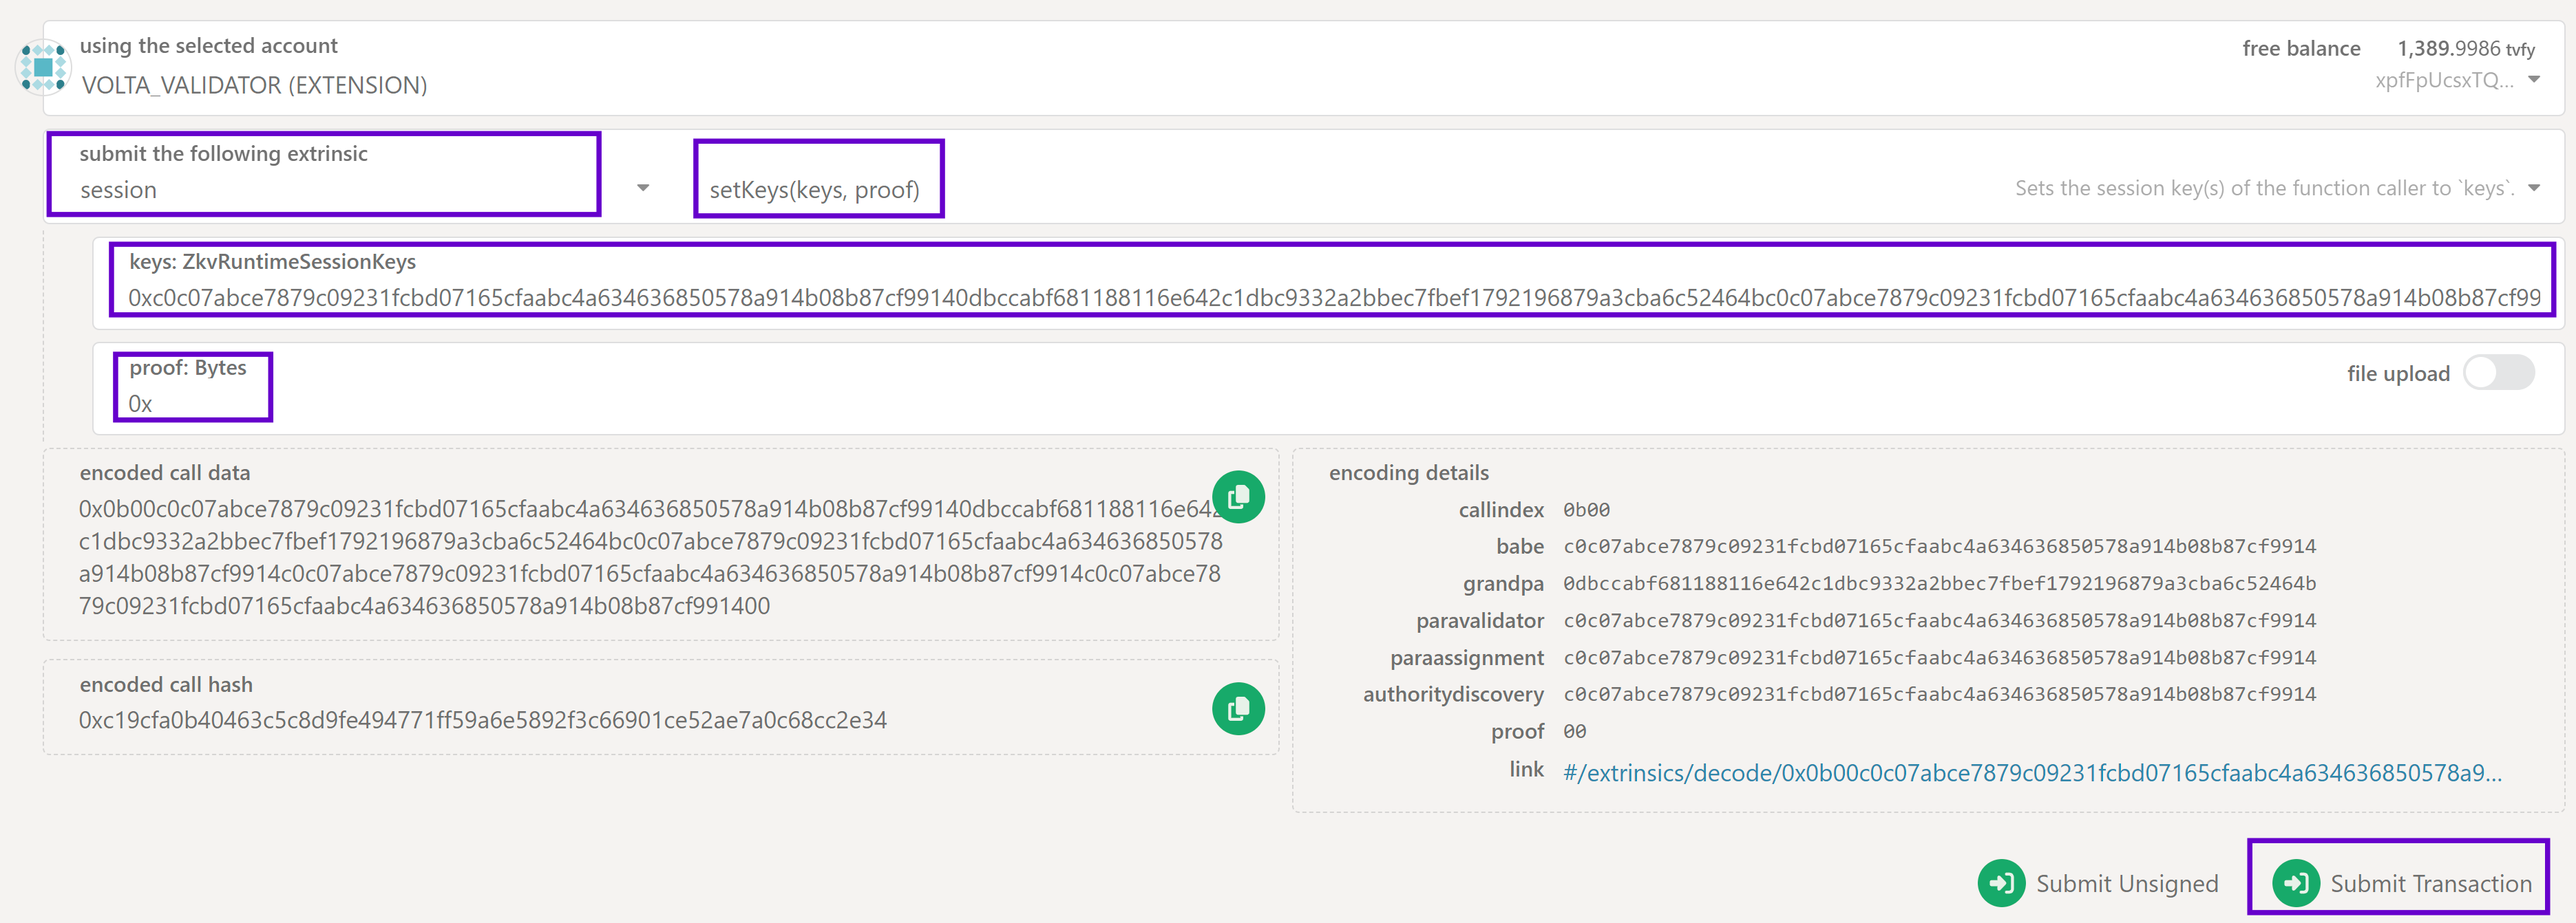
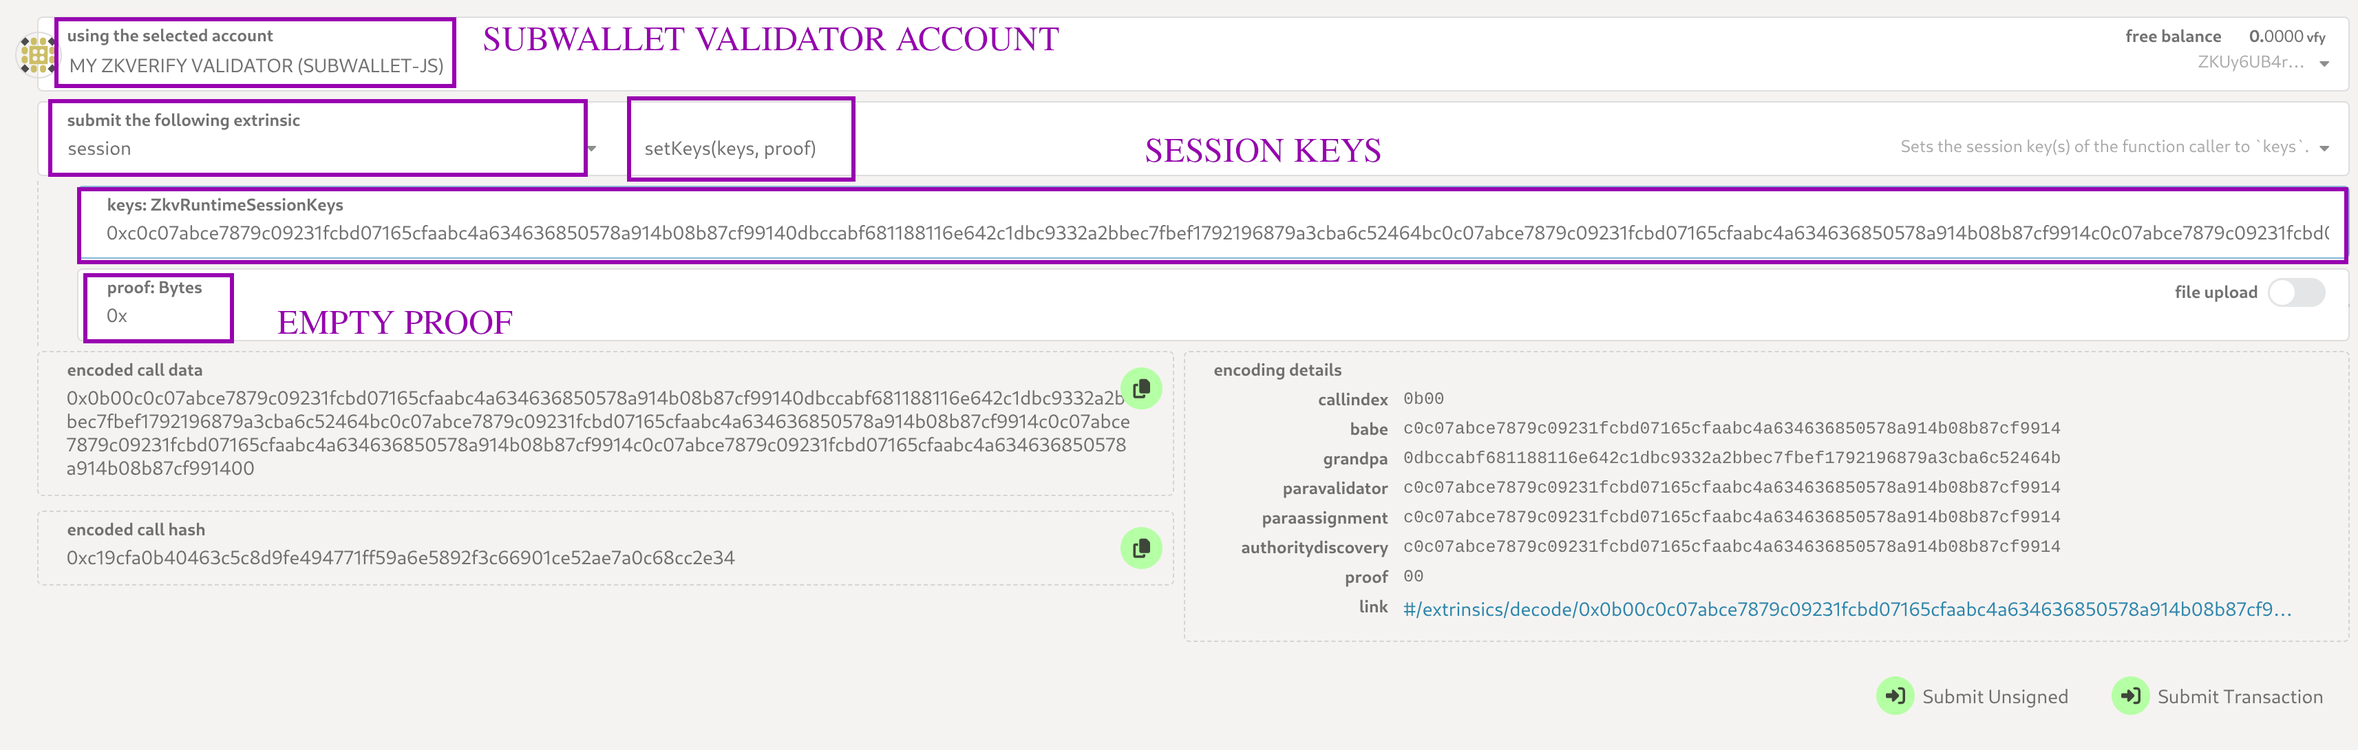
Update the README (#9)
* Update README

* Update SetKeys picture

* Fix broken section links

diff --git a/README.md b/README.md
@@ -33,7 +33,7 @@ The **network** can be chosen to be *testnet* (i.e. [the Volta testnet](https://
 ---
 
 ## Instructions
-In order to become an active validator on zkVerify, and be compensated for such activities, you need to (1) [set up your node](#setting-up-the-node), and (2) [state your intent on chain in the Proof of Stake consensus](#join-proof-of-stake).
+In order to become an active validator on zkVerify, and be compensated for such activities, you need to (1) [set up your node](#1-setting-up-the-node), and (2) [state your intent on chain in the Proof of Stake consensus](#2-join-proof-of-stake).
 
 ### 1. Setting up the node
 
@@ -98,11 +98,17 @@ Use the following steps to implement this approach:
 
 In this section you can learn how to register a new validator on the blockchain. The operations described below must be performed just once, **after the node started in the previous section has synchronized with the existing history of the selected zkVerify chain** (testnet or mainnet).  They consist of the submission of some extrinsics (transactions, in Substrate terminology) resulting in your node being able to author new blocks and consequently earn new tokens through staking mechanism.
 
-> **_NOTE_** Since you are going to submit extrinsics which change the blockchain state, you need sufficient funds in the account (uniquely identified by your secret phrase) associated with your validator so that you can pay transaction fees. Reach out to the zkVerify team to get your token allocation.
+#### Create a New Validator Account
 
-#### Collect the Public Keys
+First, you need a zkVerify account that you will use to execute all the operations needed for becoming a validator. Notice, this will be the Validator account whose address will show up in the list of validators for zkVerify. This account needs a sufficient balance to be able to bond enough tokens and execute management operations on chain, and for such reason **we highly encourage to use a secure wallet extension (e.g. Subwallet) for storing the secrets of the account**. At the same time, we advice against storing this account's secrets directly in PolkadotJS.
 
-We will require the public keys associated with the secrets above for your validator to them with the network. You need *five* keys: Babe, Grandpa, Para Validator, Para Assignment, and Authority Discovery.
+> **_NOTE_** Since you are going to submit extrinsics which change the blockchain state, you need sufficient funds in the account. If necessary, reach out to the zkVerify team and provide your account address to get your token allocation.
+
+#### Collect the Session Keys
+
+Session keys are the keys that will sign all the validation operations behind the scenes. You will never use these keys directly in your wallet to sign transactions, but your node will use them to sign operational messages that are at the base of the security of the network. For this reason, **we strongly advise that these public keys do not belong to the same keypair as the one used for the Validator account above.**
+
+We will require the public keys associated with the secrets injected in the node in the [node setup section](#1-setting-up-the-node) to share them with the network.   You need *five* public keys: Babe, Grandpa, Para Validator, Para Assignment, and Authority Discovery.
 
 If you let the ``init.sh`` script create the secret phrase for you, you will find your public keys at the bottom of the output env file (e.g. deployments/validator-node/mainnet/.env).
 
@@ -120,7 +126,7 @@ AuthorityDiscovery: 0xc0c07abce7879c09231fcbd07165cfaabc4a634636850578a914b08b87
 
 #### Announce Session Keys Onchain
 
-Once you have these five keys, you need to visit [PolkadotJS](https://polkadot.js.org/apps/?rpc=wss://zkverify-rpc.zkverify.io#/extrinsics) and call the ``setKeys`` extrinsic under ``sessions`` module.
+Once you have these five keys, you need to visit [PolkadotJS](https://polkadot.js.org/apps/?rpc=wss://zkverify-rpc.zkverify.io#/extrinsics) and call the ``setKeys`` extrinsic under ``sessions`` module. Make sure that you sign and submit the extrinsic from your Validator account through your wallet extension.
 
 In order to fill the `keys` field you need to concatenate the `Babe` key, followed by the `Grandpa` key (without the `0x` at the beginning), followed by the `ParaValidator` key (without the `0x` at the beginning), followed by the `ParaAssignment` key (without the `0x` at the beginning), followed by the `AuthorityDiscovery` key (without the `0x` at the beginning). **The order of the keys is fixed and must be preserved**. Considering the keys here above, the value for the `keys` field will be the following:
 
@@ -138,17 +144,27 @@ Next step would be to stake VFY for your registered validator node.
 
 ##### Initial Bonding
 
-Call the ``bond`` extrinsic under the ``staking`` module and fill in the value field with the amount of VFY you would like to stake. Finally, choose the account type in payee option and sign and submit your transaction. 
+Call the ``bond`` extrinsic under the ``staking`` module. You need to fill in two fields, that we will describe in this section: (1) the *value* field with the amount of VFY you would like to stake, and (2) the *payee* field that selects where to receive the staking rewards.
 
-Now your take would be to stake more than the lowest in the list of validators scheduled to be active in the next era.
+![bond](doc/polkadotjs_staking_bond.png?raw=true "PolkadotJS bond")
+
+###### Value
+
+When determining the amount of tokes to bond, your take would be to stake more than the lowest in the list of validators scheduled to be active in the next era.
 
 In order to get a picture of the current state, and get an estimate of the amount of tokens that you have to stake to be elected as a valdator for the next era, you can check the active and candidate validator sets in the current era in the same PolkadotJS. Navigate to ``Network`` > ``Staking``, and choose the ``Targets`` tab. You will get a complete list of validators, one per row. Each row has a ``total stake`` field, which represents the sum of the own stake of the validator itself, plus all the nominations that the validator received.
 
-Also, as of now you need to stake a minimum amount of 10000 VFY to become a validator.
+Also, as of now you need to stake a minimum amount of 100000 VFY to become a validator.
 
 You can check the `MinimumValidatorBond` anytime by going to `Developer -> Chain State -> staking state query -> minValidatorBond` and clicking the ``+`` button. Notice that you need to remove 18 trailing digits to compute the amount in VFY.
 
-![bond](doc/polkadotjs_staking_bond.png?raw=true "PolkadotJS bond")
+###### Payee
+
+Next, you must choose the account type in payee option; this options determines where the reward for being a validator will be credited. The default will be *Staked*, which means that the reward, when claimed, will automatically increase your bond amount. It will still be possible to unlock such funds at a later time, but it will require manual intervention and will incur an unlocing delay (see the [Removing the Bond section](#optional:-updating-the-bond)).
+
+If instead you wish to receive tokens that you can use without restrictions immediately, we suggest to select either *Stash* or *Account*. *Stash* credit your rewards on the same account that owns the bond, while the *Account* type lets you fill in any account that you own in the field that appears below (as shown in the picture).
+
+We discourage using the deprecated *Controller* option.
 
 ##### Optional: Updating the Bond
 
